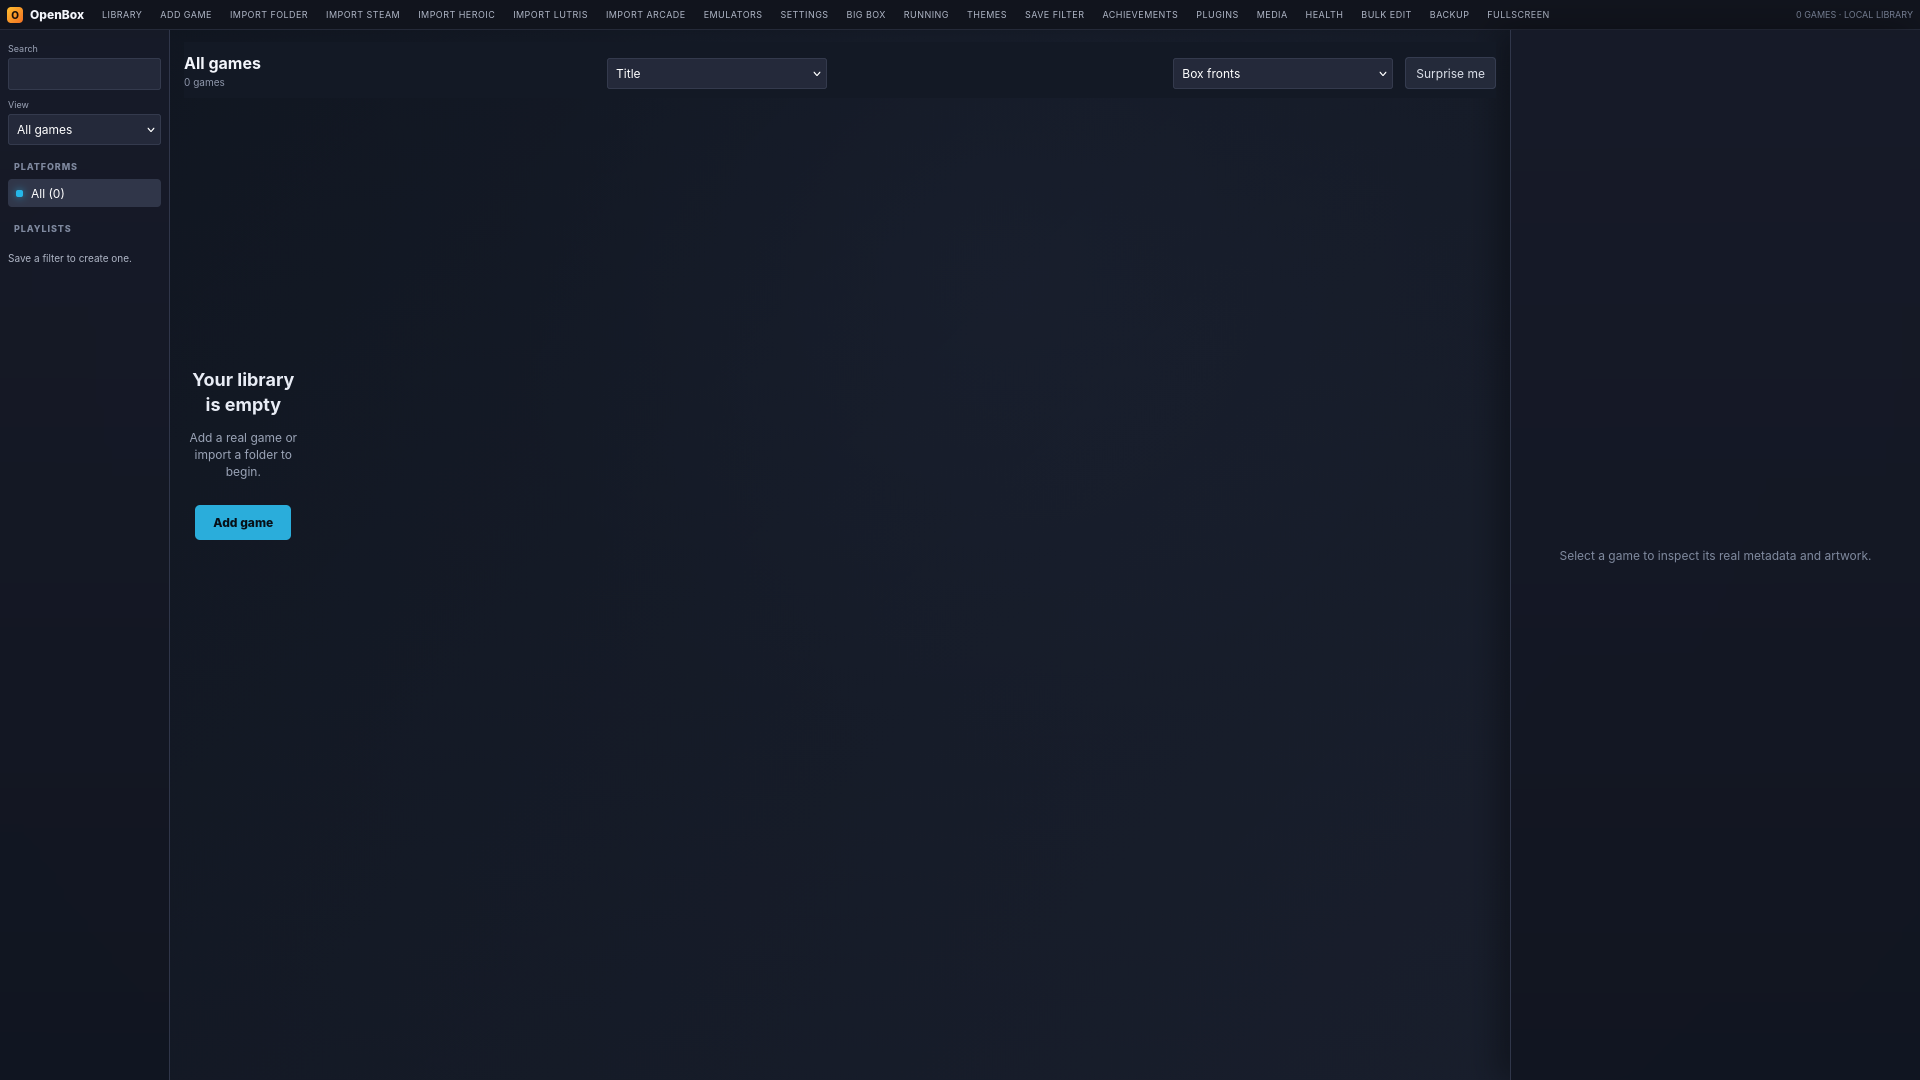
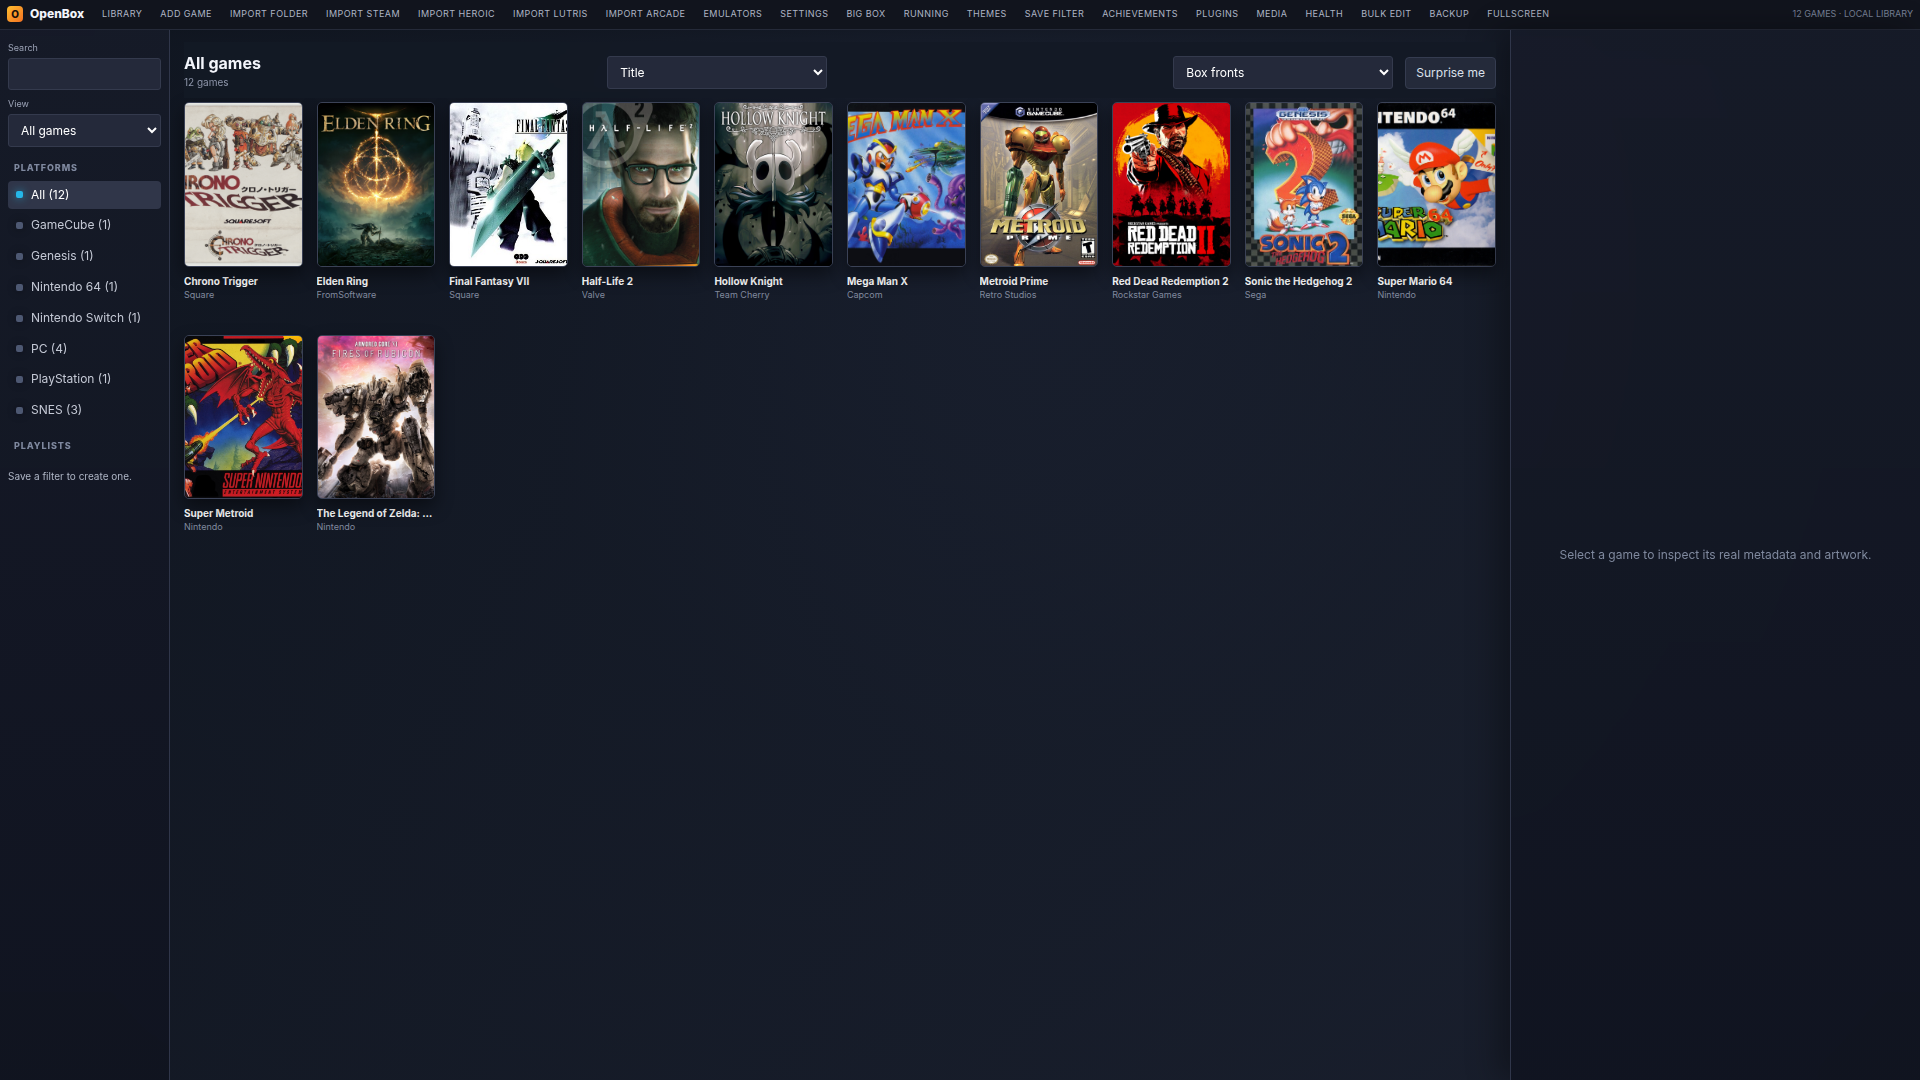
docs: update README with 1920x1080 screenshots of library grid and game detail view

diff --git a/README.md b/README.md
@@ -84,9 +84,15 @@ Featuring both a feature-packed **Modern Browser Web UI** (with REST API) and a 
 ## 🖼 Screenshots
 
 <p align="center">
-  <img src="assets/openbox-screenshot.png" alt="OpenBox Library Interface" width="92%">
+  <img src="assets/openbox-screenshot.png" alt="OpenBox Library View" width="92%">
   <br>
-  <em>OpenBox Web Interface displaying game grid view, custom metadata, and launcher options.</em>
+  <em>OpenBox Web Interface — unified library grid with multi-source game aggregation and platform filtering.</em>
+</p>
+
+<p align="center">
+  <img src="assets/openbox-game-detail.png" alt="OpenBox Game Detail" width="92%">
+  <br>
+  <em>Game detail panel with metadata, launch controls, related games, and save management.</em>
 </p>
 
 ---
